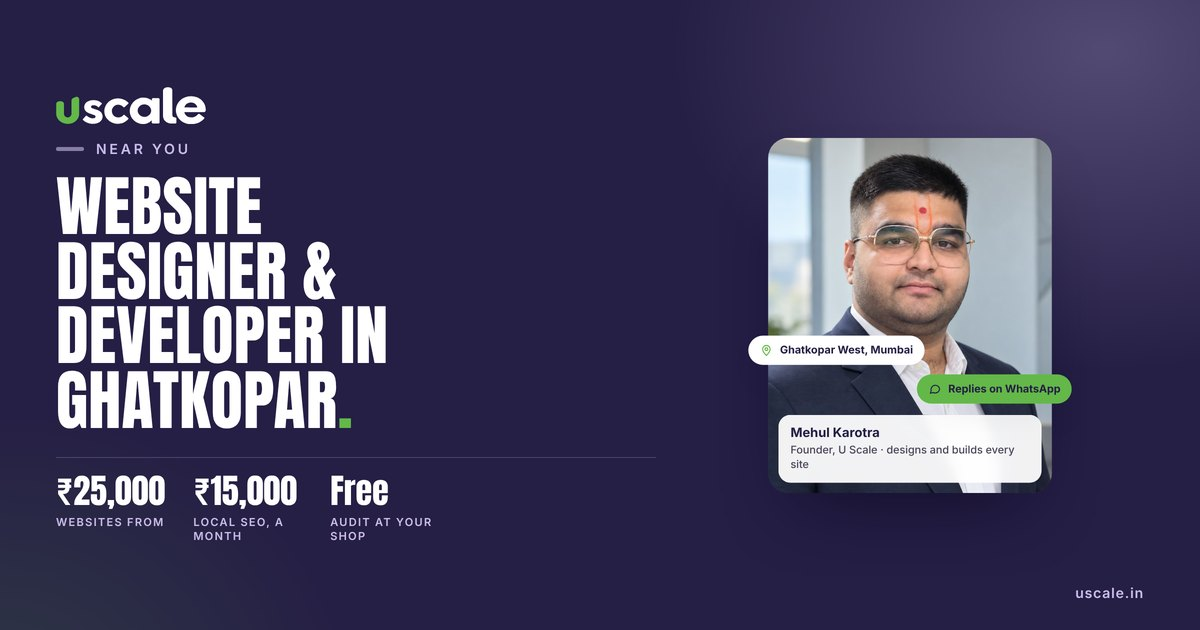
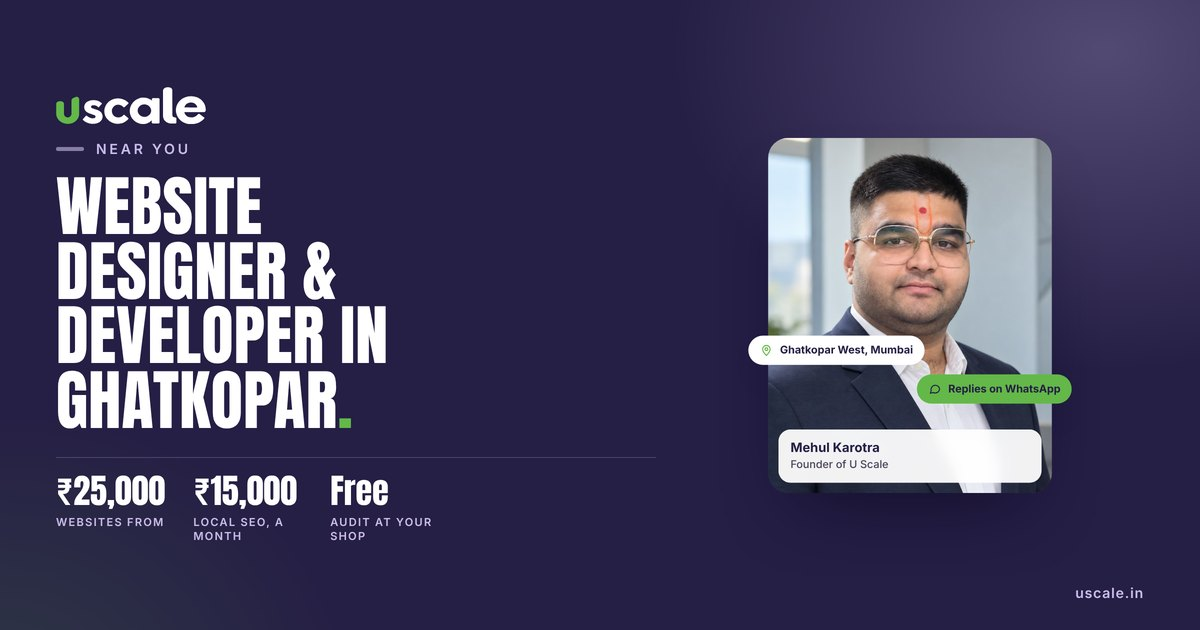
Portrait plate: just "Founder of U Scale" at every size
Claude-Session: https://claude.ai/code/session_01PnNqLetZa1qM7x4YyDRdo5

Changed region(s): [[0.6475, 0.6333, 0.8942, 0.754]]

diff --git a/source/src/seo.css b/source/src/seo.css
@@ -362,7 +362,6 @@ html.pin-ok .sp-process .step{opacity:1;transform:none}
   color:var(--violet);text-align:left;margin:0;backdrop-filter:blur(6px)}
 .fp-portrait__plate b{font:700 15px/1.2 var(--sans)}
 .fp-portrait__plate span{font:500 12.5px/1.35 var(--sans);color:var(--body)}
-@media (max-width:1023px){.fp-portrait__more{display:none}}
 /* chips sit on the shoulders, never on the face (face is the top half of the 4:5 crop) */
 .fp-art--portrait .fp-chip--1{left:-7%;top:auto;bottom:36%}
 .fp-art--portrait .fp-chip--2{right:-7%;top:auto;bottom:25%}

diff --git a/source/build/geo_pages.py b/source/build/geo_pages.py
@@ -937,7 +937,7 @@ def _hero_art(p):
     if k == 'portrait':
         img = IMG['mehul']
         return (f'<figure class="fp-art fp-art--portrait"><div class="fp-portrait">{_pic(img, "(max-width: 559px) 260px, (max-width: 1023px) 300px, 400px", eager=True)}'
-                f'<figcaption class="fp-portrait__plate"><b>Mehul Karotra</b><span>Founder, U Scale<span class="fp-portrait__more"> · designs and builds every site</span></span></figcaption></div>{chips}</figure>')
+                f'<figcaption class="fp-portrait__plate"><b>Mehul Karotra</b><span>Founder of U Scale</span></figcaption></div>{chips}</figure>')
     if k == 'ticket':
         rows = [('Landing page', price('Landing page')), ('Business site, 3–4 pages', price('Business site, 3–4 pages')),
                 ('5–10 pages + blog', price('Business site, 5–10 pages + blog')), ('Online store se', price('E-commerce, under 50 products'))]
